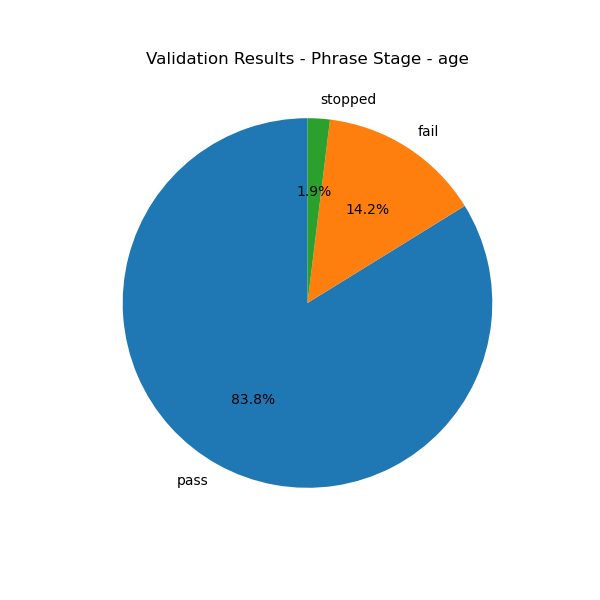
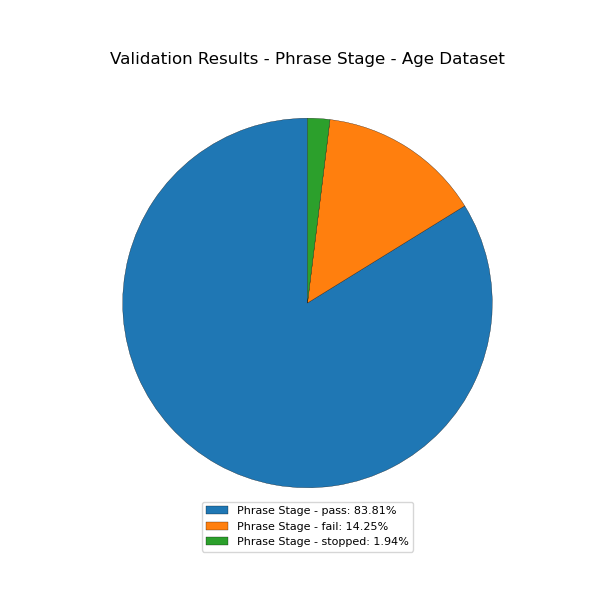
Fixed some figure display issues

diff --git a/scripts/calculate_metrics.py b/scripts/calculate_metrics.py
@@ -375,9 +375,23 @@ def plot_scatter_phrase_count_vs_validity(data, style, exclude_urls=False):
     if exclude_urls:
         data = data[(data['split_phrase_count'] != 1) | (data['phrase_validity_rate'] != 1)]
     
+    # Group data to count occurrences of each (split_phrase_count, phrase_validity_rate) pair
+    data_grouped = data.groupby(['split_phrase_count', 'phrase_validity_rate']).size().reset_index(name='count')
+
+    # Adjust point sizes based on the count
     plt.figure(figsize=(10, 6))
-    sns.scatterplot(x='split_phrase_count', y='phrase_validity_rate', data=data)
-    plt.title(f'Split Phrase Count vs. Validity Rate - {style}{" (Excl. URLs)" if exclude_urls else ""}')
+    sns.scatterplot(
+        x='split_phrase_count', 
+        y='phrase_validity_rate', 
+        size='count', 
+        sizes=(20, 2000),  # Adjust the min and max size to fit the plot well
+        data=data_grouped, 
+        legend=False
+    )
+    
+    printable_style = {'age': 'Age Dataset', 'data_loc': 'Data Location Dataset'}
+    
+    plt.title(f'Split Phrase Count vs. Validity Rate - {printable_style[style]}{" (Excl. URLs)" if exclude_urls else ""}')
     plt.xlabel('Split Phrase Count')
     plt.ylabel('Phrase Validity Rate')
     plt.grid(True)
@@ -390,11 +404,23 @@ def plot_validation_pie_charts(data, style):
     '''
     stages = ['char_validation', 'word_validation', 'phrase_validation']
     stage_labels = ['Character Stage', 'Word Stage', 'Phrase Stage']
-    for stage, label in zip(stages, stage_labels):
+    stage_percents = [data[stage].value_counts(normalize=True) * 100 for stage in stages]
+    printable_style = {'age': 'Age Dataset', 'data_loc': 'Data Location Dataset'}
+
+    # Create pie charts for each stage
+    for stage, label, stage_percent in zip(stages, stage_labels, stage_percents):
         counts = data[stage].value_counts()
+        # Create formatted labels for the current stage
+        labels = [f'{label} - {value}: {percent:.2f}%' for value, percent in stage_percent.items()]
+        
         plt.figure(figsize=(6, 6))
-        plt.pie(counts, labels=counts.index, autopct='%1.1f%%', startangle=90)
-        plt.title(f'Validation Results - {label} - {style}')
+        wedges, texts = plt.pie(counts,
+                                startangle=90,
+                                wedgeprops = {"edgecolor" : "black", 'linewidth': 0.2, 'antialiased': True})
+        
+        plt.title(f'Validation Results - {label} - {printable_style[style]}')
+        plt.legend(wedges, labels, loc='lower center', bbox_to_anchor=(0.5, -0.05), fontsize=8)
+        
         plt.savefig(f'{style}/output_files/validation_pie_{stage}.png')
         plt.close()
 
@@ -404,10 +430,11 @@ def plot_levenshtein_histogram(data, style):
     '''
     stages = ['char_distance_score', 'word_distance_score']
     labels = ['Character Stage', 'Word Stage']
+    printable_style = {'age': 'Age Dataset', 'data_loc': 'Data Location Dataset'}
     for stage, label in zip(stages, labels):
         plt.figure(figsize=(10, 6))
-        sns.histplot(data[stage], bins=30, kde=True)
-        plt.title(f'Levenshtein Distance Frequency - {label} - {style}')
+        sns.histplot(data[stage], binwidth=1, kde=True, edgecolor='black', linewidth=0.5)
+        plt.title(f'Levenshtein Distance Frequency - {label} - {printable_style[style]}')
         plt.xlabel('Levenshtein Distance')
         plt.ylabel('Frequency')
         plt.grid(True)
@@ -418,7 +445,7 @@ def generate_additional_figures(input_file, style):
     '''
     Generates additional figures based on the dataset style.
     '''
-    data = pd.read_csv(input_file, sep='\\t')
+    data = pd.read_csv(input_file, sep='\t')
 
     # Generate scatter plots for data location datasets "split_phrase_count" vs. "phrase_validity_rate"
     if style == 'data_loc':
